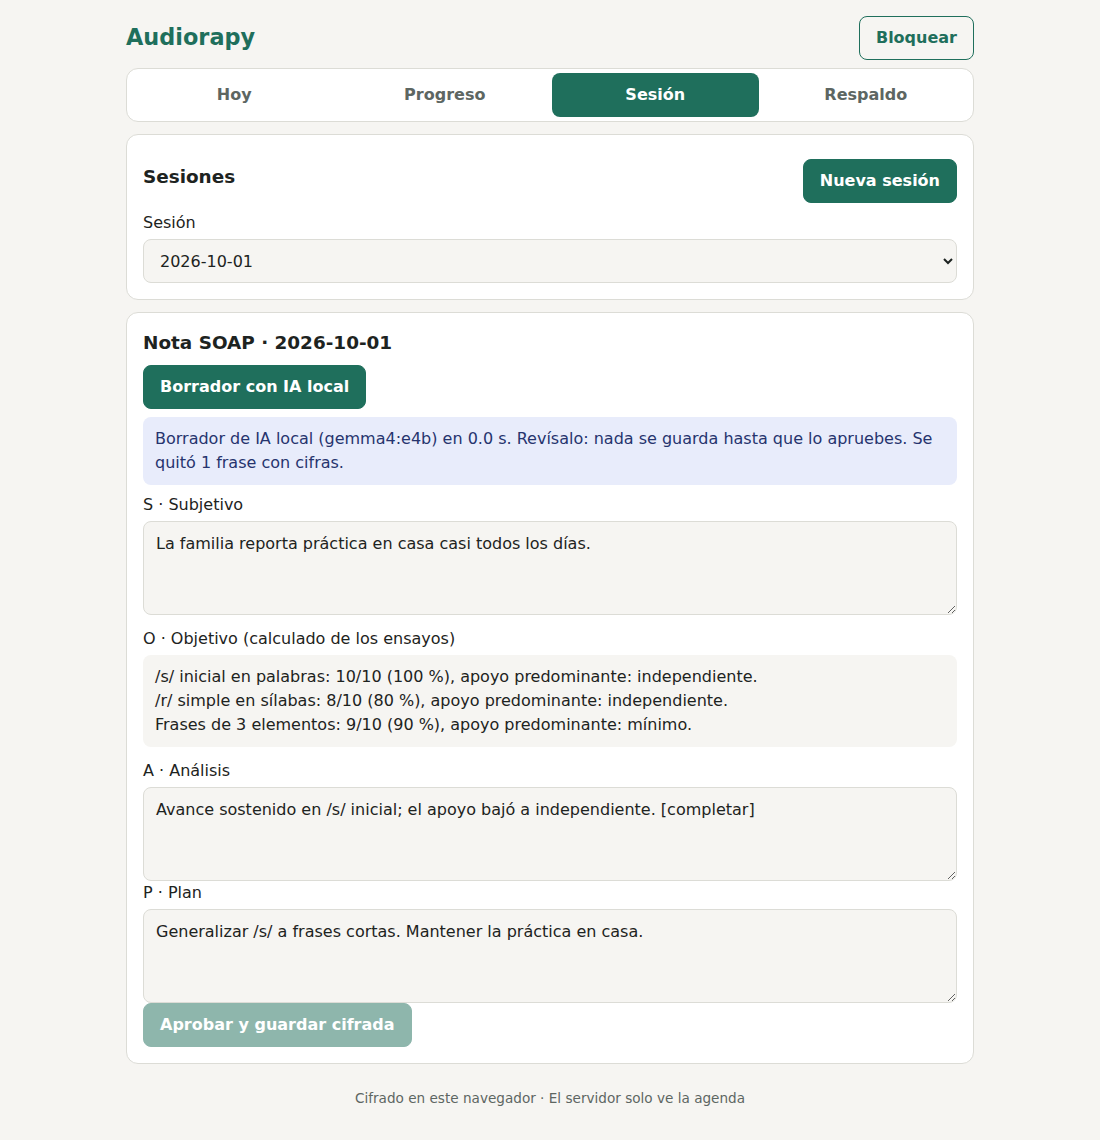
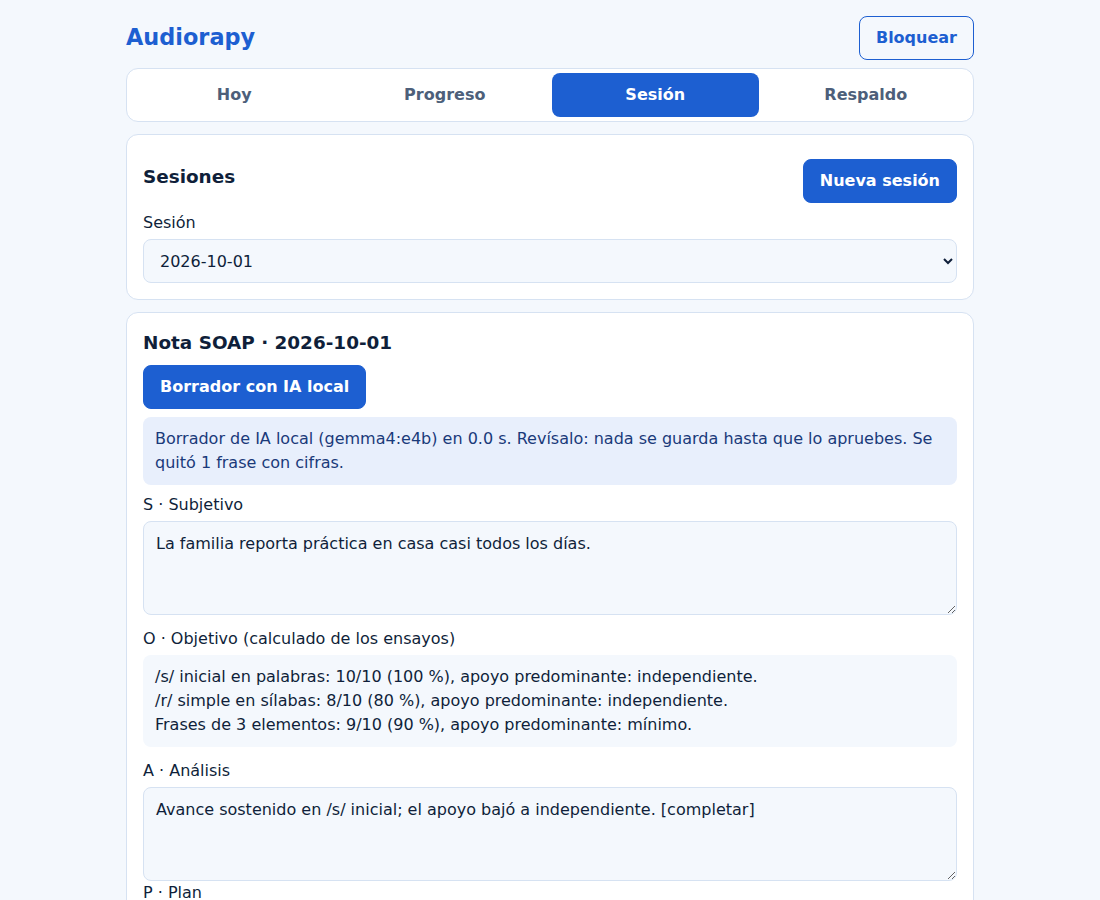
style(web): switch the dashboard to a blue-and-white palette
Accent blue on near-white in light mode and navy in dark mode; the
"minimal cue" color moves from blue to teal so data points never read as
the accent. All text pairs keep at least 5.8:1 contrast. Screenshots
retaken with playwright-cli.

Claude-Session: https://claude.ai/code/session_01EKcpbfZ2CRwwH1XMbcLbn9

diff --git a/apps/web/src/styles.css b/apps/web/src/styles.css
@@ -1,22 +1,22 @@
-/* styles.css: dashboard styles — tokens for light and dark, mobile first, 44px touch targets. */
+/* styles.css: dashboard styles — blue-and-white tokens for light and dark, mobile first, 44px touch targets. */
 :root {
-  --bg: #f6f5f2;
+  --bg: #f4f8fd;
   --surface: #ffffff;
-  --text: #1d2321;
-  --muted: #5d6662;
-  --line: #dcdcd6;
-  --accent: #1f6f5c;
+  --text: #0f1f3a;
+  --muted: #4d5f7a;
+  --line: #d6e2f2;
+  --accent: #1d5fd1;
   --accent-text: #ffffff;
   --warn-bg: #fff4d6;
   --warn-text: #6b4c00;
   --error-bg: #fde4e1;
   --error-text: #8a1f11;
-  --ok-bg: #e2f3ea;
-  --ok-text: #1d5c3b;
-  --ai-bg: #e8ecfb;
-  --ai-text: #26346e;
+  --ok-bg: #e3f0fd;
+  --ok-text: #12407f;
+  --ai-bg: #e8effc;
+  --ai-text: #1a3a7a;
   --cue-independent: #1f7a4d;
-  --cue-min: #4f9bd1;
+  --cue-min: #0e9aa7;
   --cue-mod: #e0a526;
   --cue-max: #c94a3a;
   --radius: 12px;
@@ -25,23 +25,23 @@
 
 @media (prefers-color-scheme: dark) {
   :root {
-    --bg: #121514;
-    --surface: #1c201e;
-    --text: #e8ece9;
-    --muted: #a3ada8;
-    --line: #333a37;
-    --accent: #5cc3a5;
-    --accent-text: #0d1a16;
+    --bg: #0b1424;
+    --surface: #111e35;
+    --text: #e6eefb;
+    --muted: #9fb2cf;
+    --line: #23375a;
+    --accent: #6ea8ff;
+    --accent-text: #0b1424;
     --warn-bg: #3b3115;
     --warn-text: #f3d98a;
     --error-bg: #46201b;
     --error-text: #ffb4a8;
-    --ok-bg: #173327;
-    --ok-text: #9fe0bd;
-    --ai-bg: #20294d;
-    --ai-text: #c3cdfa;
+    --ok-bg: #16305a;
+    --ok-text: #b9d4ff;
+    --ai-bg: #1a2c52;
+    --ai-text: #c6d8ff;
     --cue-independent: #4fc98a;
-    --cue-min: #7cbcec;
+    --cue-min: #4fd1db;
     --cue-mod: #f0c049;
     --cue-max: #ee7a69;
   }

diff --git a/docs/verificacion.md b/docs/verificacion.md
@@ -13,6 +13,7 @@
 | 2026-10-02 | `npm run smoke:api` | PASS 9/9 — proceso real: 401 sin firma, 200 sonda firmada, 403 token malo, reto devuelto, consentimiento → cupos → reserva, agenda, logs sin teléfono | Linux, Node 22.22.0 |
 | 2026-10-02 | `npm run verify` (B4) | PASS — 157 tests: unit 119, fuzz 17, invariant 21; build web 385 kB JS (124 kB gzip) | Linux, Node 22.22.0 |
 | 2026-10-02 | `npm run test:e2e` ×2 | PASS 20/20 las dos corridas (10 tests × móvil Pixel 7 y escritorio) | Chromium 141 (`PW_CHROMIUM_PATH`), Playwright 1.63 |
+| 2026-10-02 | Paleta azul y blanco: `npm run verify` + `npm run test:e2e` | PASS — 157 tests; e2e 20/20; contraste texto ≥ 5,8:1 en claro y oscuro; `playwright-cli` a 360 px `{ overflow: false, h1: 1, small: 0 }`, 0 errores de consola | Chromium 141 |
 | 2026-10-02 | `npm run test:invariant` ×3 | PASS las tres corridas (semillas aleatorias) | Linux, Node 22.22.0 |
 
 ## Mutaciones (la suite se pone roja cuando la promesa se rompe)

diff --git a/docs/memoria.md b/docs/memoria.md
@@ -35,6 +35,8 @@
 | 2026-10-02 | El token del dashboard en `sessionStorage`; direcciones en `localStorage` | El token se va al cerrar la pestaña | Todo en `localStorage` |
 | 2026-10-02 | Modo sesión también en web | La app Expo (B6) no cabe verificada hoy; el dashboard ya puede registrar ensayos con nivel de apoyo | Esperar a Expo |
 
+| 2026-10-02 | Paleta **azul y blanco** (pedido del autor): acento `#1d5fd1`, fondo `#f4f8fd`; modo oscuro azul marino. El nivel de apoyo "mínimo" pasa de azul a turquesa `#0e9aa7` para no confundirse con el acento | Todos los pares de texto ≥ 5,8:1 (WCAG AA); puntos del gráfico ≥ 3:1 | Verde original |
+
 ## Bitácora
 
 - **2026-10-02** — B1: scaffold, contrato, CI. `npm run verify` verde en local (Node 22.22).
